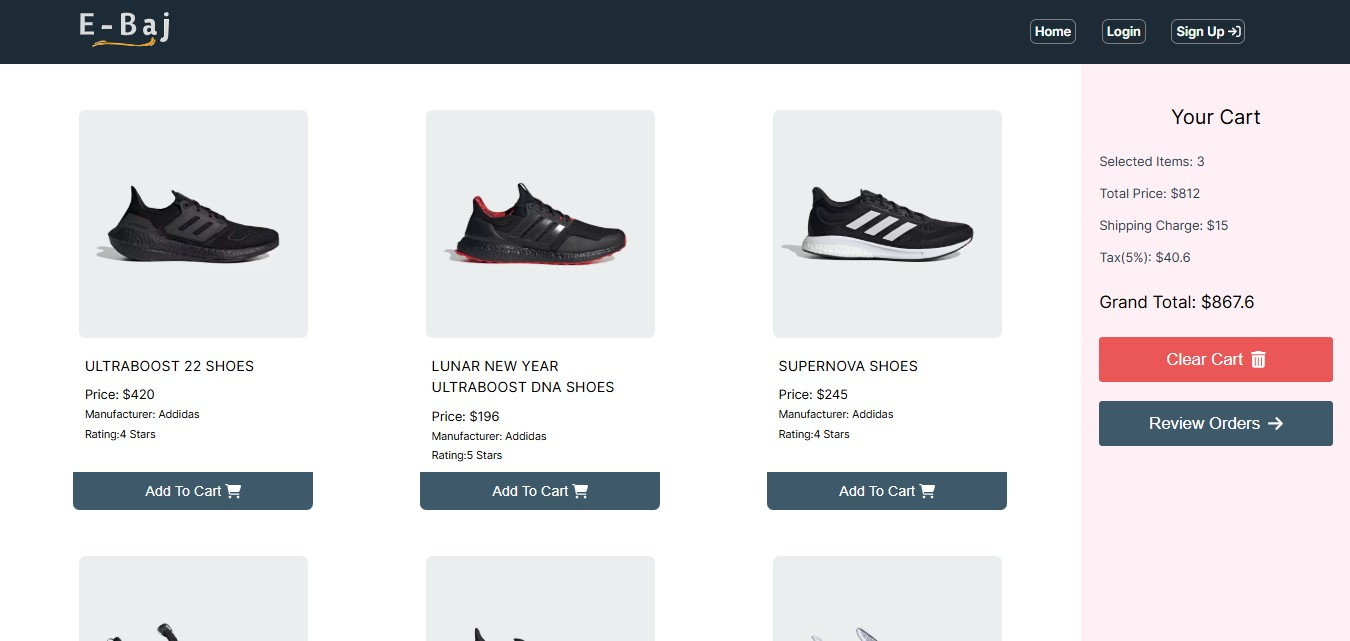
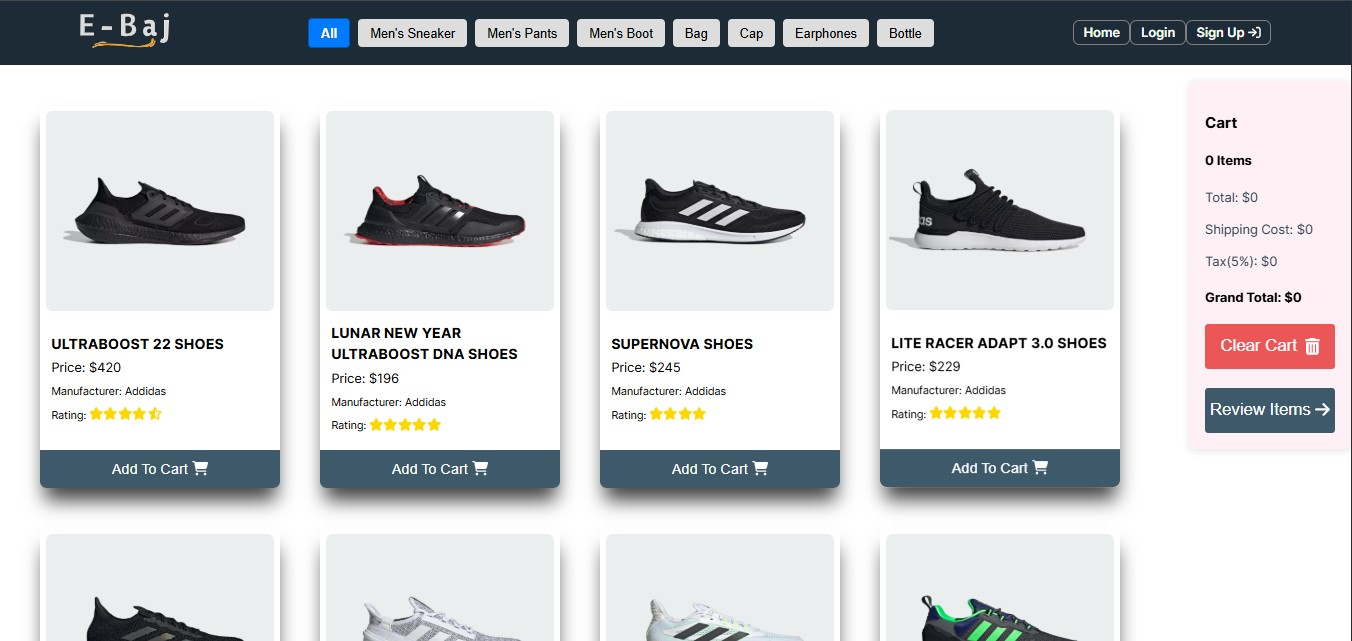
some changes

diff --git a/src/components/About.jsx b/src/components/About.jsx
@@ -25,49 +25,52 @@ const About = () => {
   return (
     <section className="container mx-auto px-6 lg:flex lg:justify-between gap-5 lg:items-center lg:mt-40 lg:mb-20">
       {/* About */}
-        <div className="mx-auto px-6 text-center lg:text-left ">
-          <motion.h2
-            initial={{ opacity: 0, y: -50 }}
-            whileInView={{ opacity: 1, y: 0 }}
-            transition={{ duration: 0.5 }}
-            viewport={{ once: true }}
-            className="text-2xl lg:text-6xl font-bold text-gray-800 "
+      <div className="mx-auto px-6 text-center lg:text-left ">
+        <motion.h2
+          initial={{ opacity: 0, y: -50 }}
+          whileInView={{ opacity: 1, y: 0 }}
+          transition={{ duration: 0.5 }}
+          viewport={{ once: true }}
+          className="text-2xl lg:text-6xl font-bold text-gray-800 "
+        >
+          About Me
+        </motion.h2>
+        <motion.p
+          initial={{ opacity: 0, y: 50 }}
+          whileInView={{ opacity: 1, y: 0 }}
+          transition={{ duration: 0.5, delay: 0.2 }}
+          viewport={{ once: true }}
+          className="mt-6 lg:text-2xl text-gray-600 max-w-4xl mx-auto"
+        >
+          Hey, I'm <span className='text-red-700 font-semibold'>Rafiul Islam Sameer</span>, a front-end developer with a passion for crafting beautiful and functional web experiences. I enjoy turning ideas into reality and making websites that are smooth and user-friendly. 
+          <br/>
+          <br />
+          When I'm not busy coding, you'll find me <span className='text-red-700 font-semibold'>exploring my love for art</span> or <span className='text-red-700 font-semibold'>traveling to exciting places.</span>
+        </motion.p>
+        <motion.div
+          initial={{ opacity: 0, y: 50 }}
+          whileInView={{ opacity: 1, y: 0 }}
+          transition={{ duration: 0.5, delay: 0.4 }}
+          viewport={{ once: true }}
+          className="mt-8 flex justify-center lg:justify-start space-x-4"
+        >
+          <Link
+            to="/projects"
+            className="px-3 md:px-6 py-3 font-semibold bg-red-700 text-white rounded-lg hover:bg-red-800"
           >
-            About Me
-          </motion.h2>
-          <motion.p
-            initial={{ opacity: 0, y: 50 }}
-            whileInView={{ opacity: 1, y: 0 }}
-            transition={{ duration: 0.5, delay: 0.2 }}
-            viewport={{ once: true }}
-            className="mt-6 lg:text-2xl text-gray-600 max-w-4xl mx-auto"
+            View My Work
+          </Link>
+          <Link
+            to="/contact"
+            className="px-6 py-3 bg-gray-800 font-semibold text-white rounded-lg hover:bg-gray-900"
           >
-            Hi, I'm <span className='text-red-700 font-semibold'>Rafiul Islam Sameer</span>, a passionate front-end developer with a love for creating beautiful and functional web experiences. I specialize in building responsive, user-friendly websites using modern technologies like React, Tailwind CSS, and JavaScript. When I'm not coding, I enjoy <span className='text-red-700 font-semibold'>exploring arts</span> or <span className='text-red-700 font-semibold'>traveling</span>.
-          </motion.p>
-          <motion.div
-            initial={{ opacity: 0, y: 50 }}
-            whileInView={{ opacity: 1, y: 0 }}
-            transition={{ duration: 0.5, delay: 0.4 }}
-            viewport={{ once: true }}
-            className="mt-8 flex justify-center lg:justify-start space-x-4"
-          >
-            <Link
-              to="/projects"
-              className="px-3 md:px-6 py-3 font-semibold bg-red-700 text-white rounded-lg hover:bg-red-800"
-            >
-              View My Work
-            </Link>
-            <Link
-              to="/contact"
-              className="px-6 py-3 bg-gray-800 font-semibold text-white rounded-lg hover:bg-gray-900"
-            >
-              Contact Me
-            </Link>
-          </motion.div>
-        </div >
-    {/* Image container */}
+            Contact Me
+          </Link>
+        </motion.div>
+      </div >
+      {/* Image container */}
       <div
-        className="hidden md:block w-1/2"
+        className="hidden md:block w-1/2 "
         onMouseMove={handleMouseMove}
         onMouseEnter={handleMouseEnter}
         onMouseLeave={handleMouseLeave}
@@ -81,7 +84,7 @@ const About = () => {
             viewport={{ once: true }}
             src="my-picture.jpg"
             alt="coding"
-            className="rounded-lg shadow-xl w-full"
+            className="rounded-lg w-full"
           />
 
           {/* Invert Mask */}

diff --git a/src/components/Projects.jsx b/src/components/Projects.jsx
@@ -9,7 +9,7 @@ const projects = [
     title: 'Flavors of India',
     description: 'Flavors of India is a React-based web app showcasing India’s diverse cuisine.',
     links: {
-      live: 'https://flavors-of-india.netlify.app/',
+      live: 'https://flavors-of-india-d6dbf.web.app/',
       github: 'https://github.com/Rafiulsam/flavors-of-india-client',
       server: 'https://github.com/Rafiulsam/Flavors_of_india_server',
     },
@@ -54,9 +54,11 @@ const Projects = () => {
           viewport={{ once: true }}
           className="mt-4 text-lg text-gray-600 text-center max-w-2xl mx-auto px-10"
         >
-         Here are some projects I've developed <span className='font-semibold text-red-700'>during my learning journey.</span>
+          Here are some projects I've developed <span className='font-semibold text-red-700'>during my learning journey.</span>
         </motion.p>
         <div className="mt-10 grid grid-cols-1 md:grid-cols-2 lg:grid-cols-3 gap-6">
+
+          {/* Projects Container */}
           {projects.map((project, index) => (
             <div key={index} className='transition-transform duration-200 hover:scale-105'>
               <motion.div
